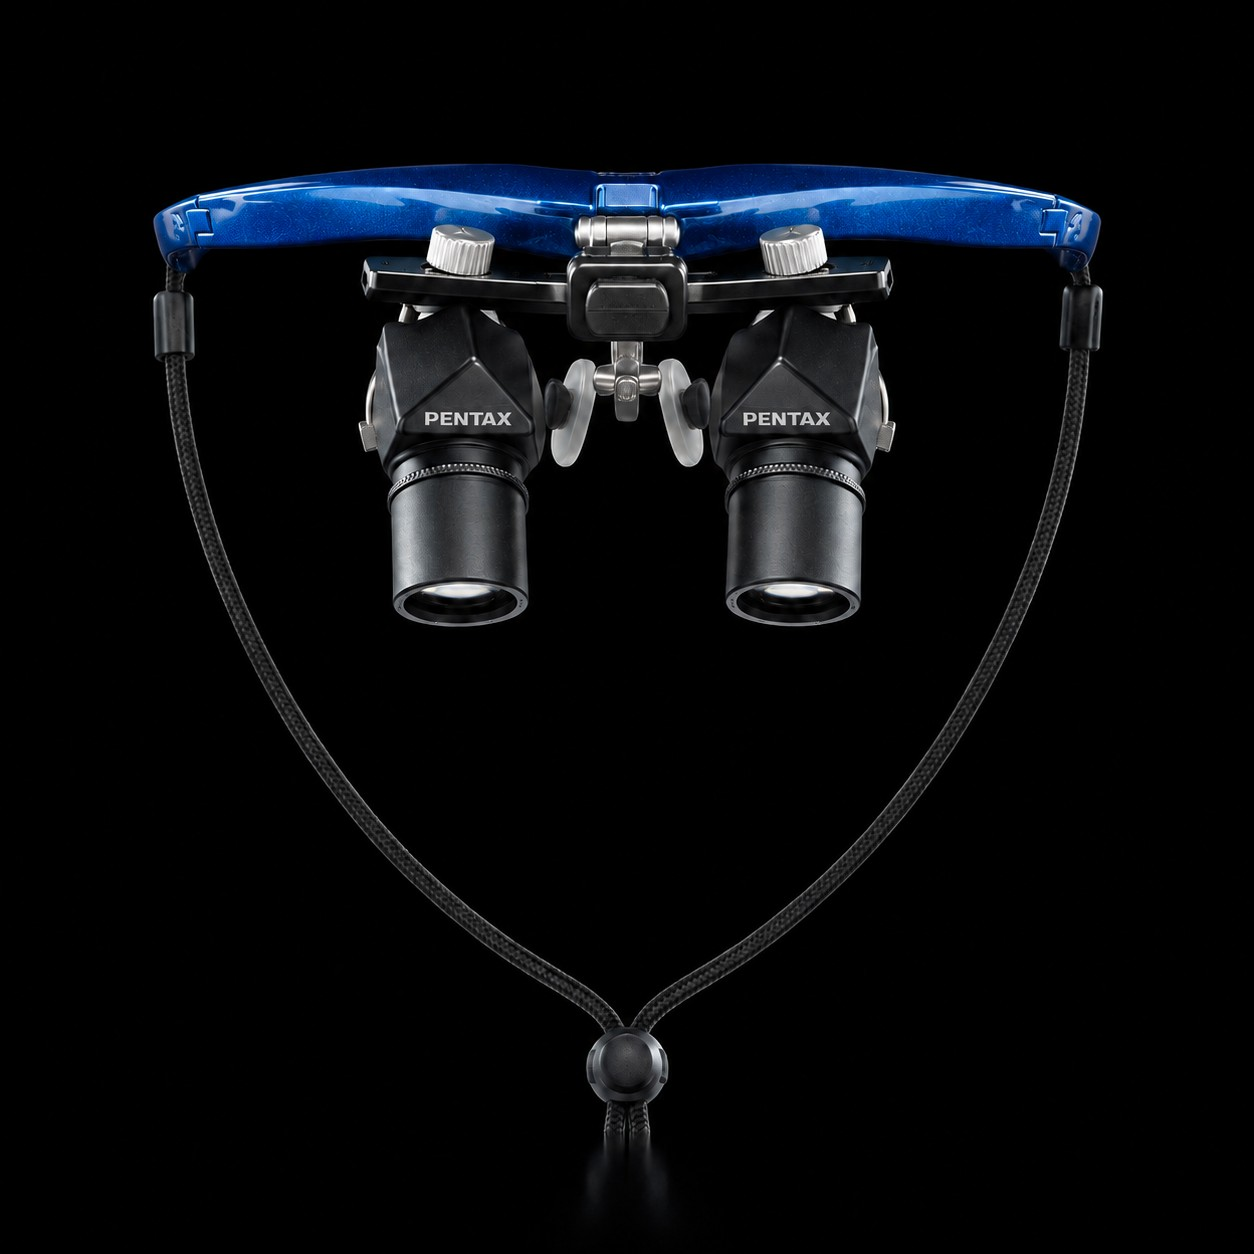
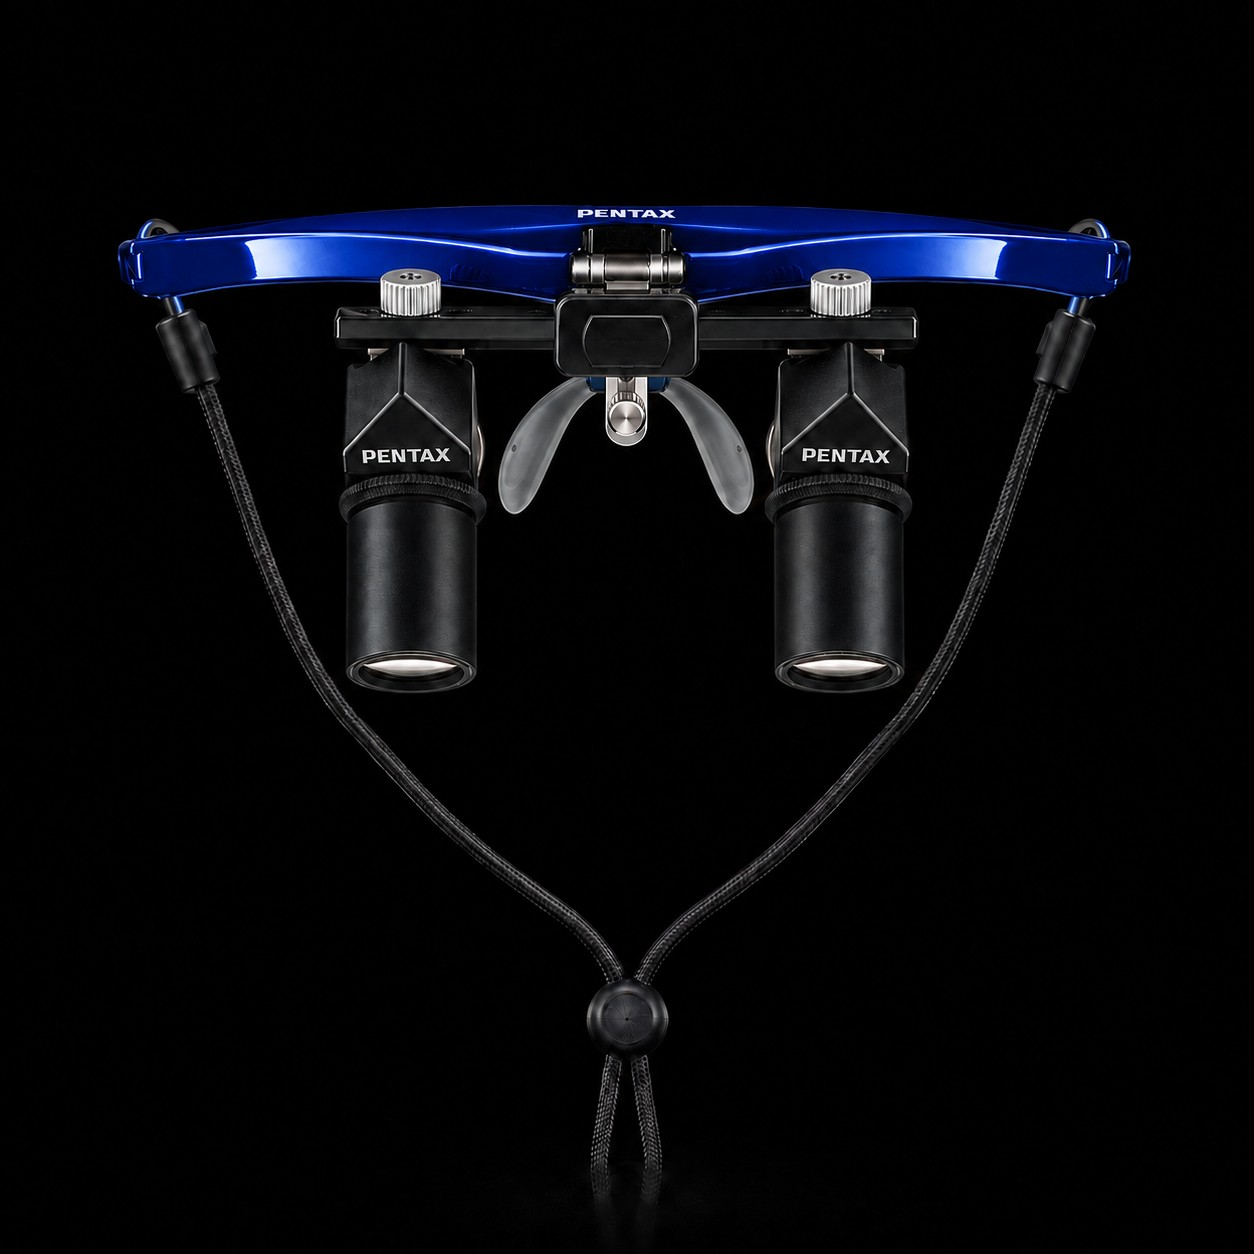
Replace all four colour renders with the matched PENTAX set
Silvergold, Blue, Black and Red cards and their large previews now use
one consistent front-on render set (PENTAX wordmark on the frame).

Changed region(s): [[0.0933, 0.1244, 0.9019, 0.933], [0.4354, 0.7153, 0.4665, 0.7464]]

diff --git a/index.html b/index.html
@@ -598,28 +598,28 @@
           <div class="cfg__colours" role="group" aria-label="Frame colour">
             <button type="button" class="cfg-colour" data-cfg-option="colour" data-value="Silvergold" aria-pressed="false">
               <span class="cfg-colour__media photo-slot" data-photo-slot>
-                <img src="images/colours/silvergold.jpg" alt="" hidden />
+                <img src="images/colours/silvergold.jpg?v=3" alt="" hidden />
                 <span class="photo-slot__placeholder"><span class="cfg-colour__dot" style="background:#c9b48a"></span></span>
               </span>
               <span class="cfg-colour__name">Silvergold</span>
             </button>
             <button type="button" class="cfg-colour" data-cfg-option="colour" data-value="Blue" aria-pressed="false">
               <span class="cfg-colour__media photo-slot" data-photo-slot>
-                <img src="images/colours/blue.jpg?v=2" alt="" hidden />
+                <img src="images/colours/blue.jpg?v=3" alt="" hidden />
                 <span class="photo-slot__placeholder"><span class="cfg-colour__dot" style="background:#2c5fe0"></span></span>
               </span>
               <span class="cfg-colour__name">Blue</span>
             </button>
             <button type="button" class="cfg-colour" data-cfg-option="colour" data-value="Black" aria-pressed="false">
               <span class="cfg-colour__media photo-slot" data-photo-slot>
-                <img src="images/colours/black.jpg?v=2" alt="" hidden />
+                <img src="images/colours/black.jpg?v=3" alt="" hidden />
                 <span class="photo-slot__placeholder"><span class="cfg-colour__dot" style="background:#1d1d1f"></span></span>
               </span>
               <span class="cfg-colour__name">Black</span>
             </button>
             <button type="button" class="cfg-colour" data-cfg-option="colour" data-value="Red" aria-pressed="false">
               <span class="cfg-colour__media photo-slot" data-photo-slot>
-                <img src="images/colours/red.jpg" alt="" hidden />
+                <img src="images/colours/red.jpg?v=3" alt="" hidden />
                 <span class="photo-slot__placeholder"><span class="cfg-colour__dot" style="background:#a3231f"></span></span>
               </span>
               <span class="cfg-colour__name">Red</span>

diff --git a/js/main.js b/js/main.js
@@ -498,7 +498,7 @@ function initConfigurator() {
   // light, Not sure) hide the preview. Magnification reuses the real
   // sample-view photos; the rest are photo slots waiting on client images.
   const PREVIEWS = {
-    colour: (v) => ({ src: `images/previews/colour-${v.toLowerCase()}.jpg?v=2`, label: v }),
+    colour: (v) => ({ src: `images/previews/colour-${v.toLowerCase()}.jpg?v=3`, label: v }),
     magnification: (v) =>
       /^\d/.test(v)
         ? { src: `images/mag-samples/mag-${v.replace("×", "").replace(".", "-")}.jpg`, label: `${v} sample view` }
